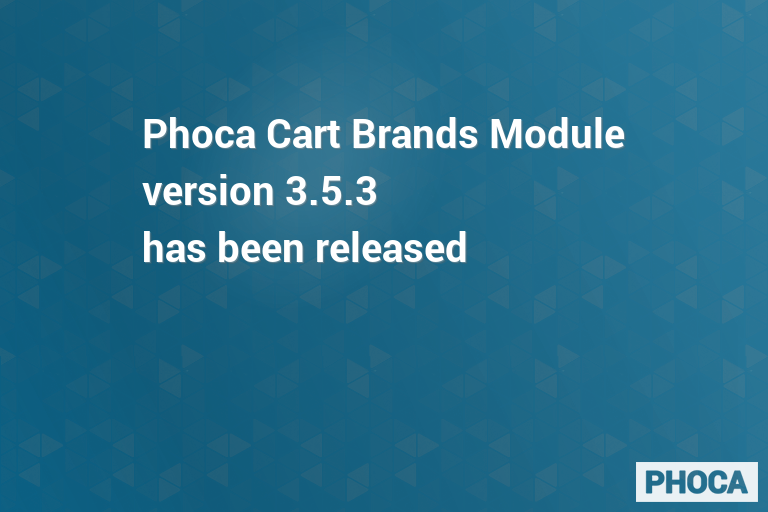
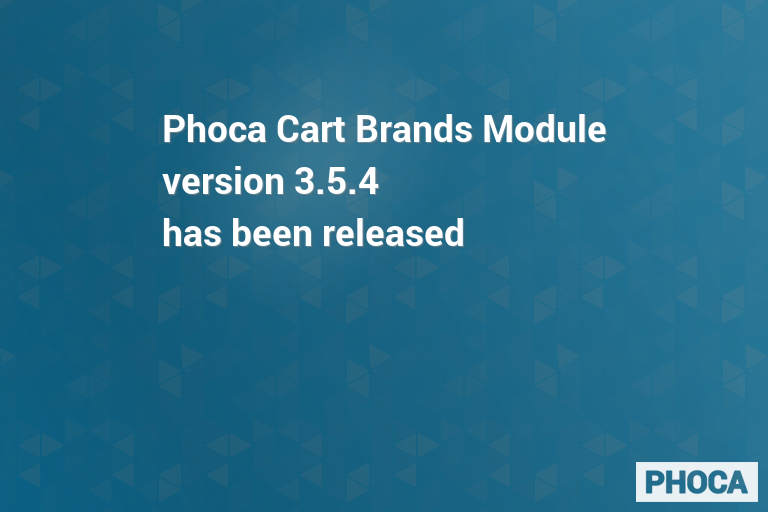
3.5.4
3.5.4

Changed region(s): [[0.1875, 0.2188, 0.8125, 0.5312]]

diff --git a/README.MD b/README.MD
@@ -56,7 +56,7 @@ Phoca Cart Brands Module - a Joomla! module which displays list of manufacturers
 
 ## Version
 
-3.5.3
+3.5.4
 
 
 
